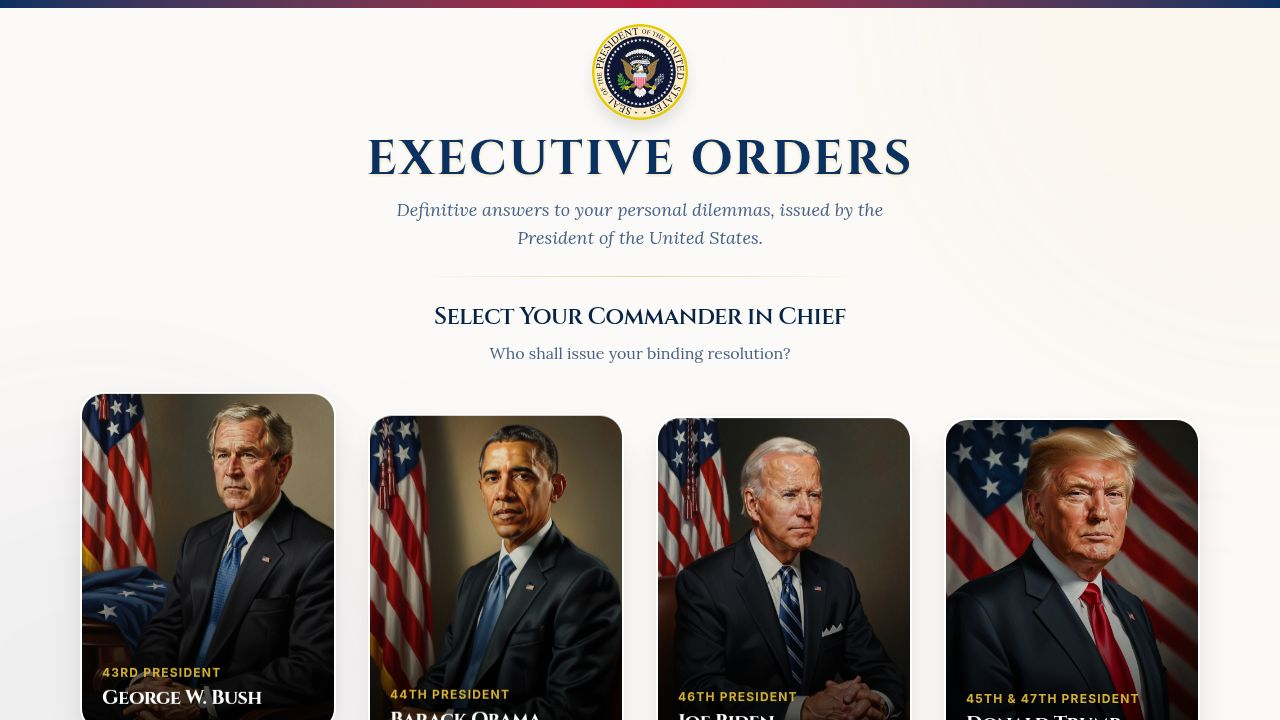
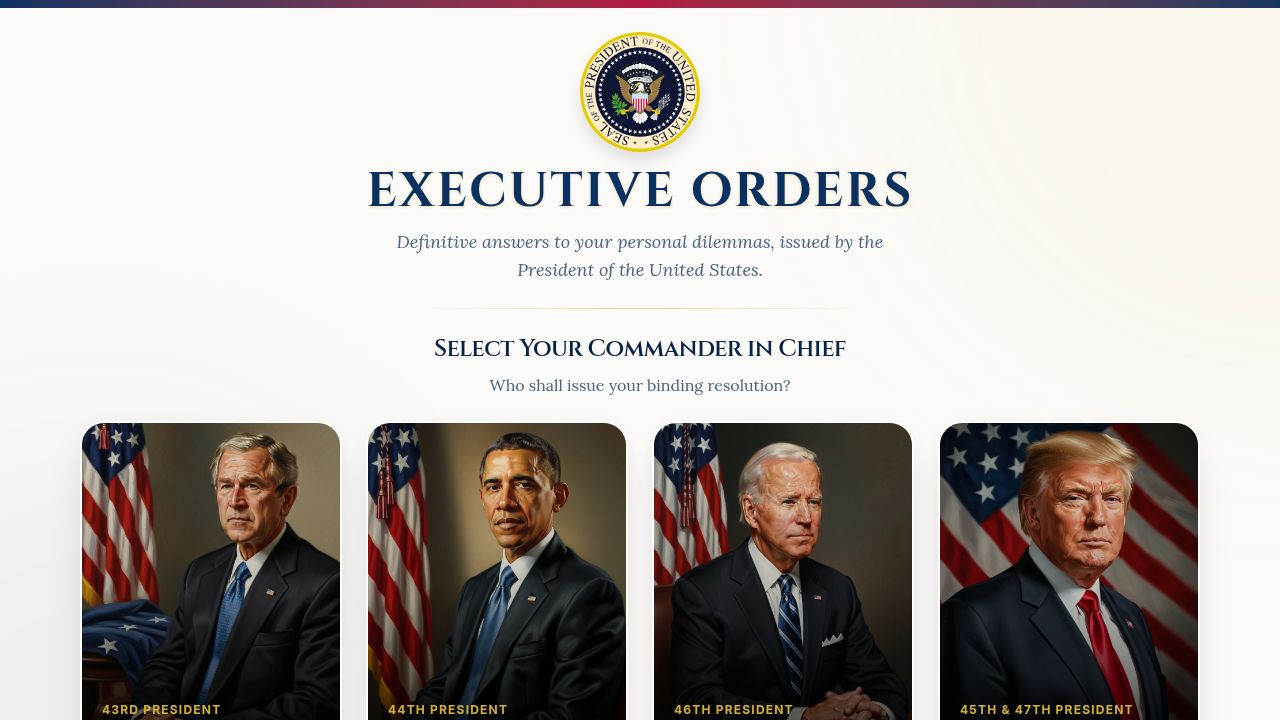
Fix errors by correcting component properties and removing unused code
Corrected Framer Motion props on a div element in PresidentSelector.tsx and removed an unused container variable.

Replit-Commit-Author: Agent
Replit-Commit-Session-Id: 940f66c3-50d1-4ead-a4e1-53856cc508cb
Replit-Commit-Checkpoint-Type: full_checkpoint
Replit-Commit-Event-Id: a72ce40f-b185-4c43-b16a-8abd64652aa9
Replit-Commit-Screenshot-Url: https://storage.googleapis.com/screenshot-production-us-central1/06a2d15c-5adb-47ed-8d57-0ca912760884/940f66c3-50d1-4ead-a4e1-53856cc508cb/tqqhmJW
Replit-Helium-Checkpoint-Created: true

diff --git a/artifacts/executive-orders/src/components/PresidentSelector.tsx b/artifacts/executive-orders/src/components/PresidentSelector.tsx
@@ -37,16 +37,6 @@ const PRESIDENTS = [
   },
 ];
 
-const container = {
-  hidden: { opacity: 1 },
-  show: {
-    opacity: 1,
-    transition: {
-      staggerChildren: 0,
-    },
-  },
-};
-
 export function PresidentSelector({ onSelect }: PresidentSelectorProps) {
   return (
     <div className="w-full max-w-6xl mx-auto px-4">
@@ -60,9 +50,6 @@ export function PresidentSelector({ onSelect }: PresidentSelectorProps) {
       </div>
 
       <div
-        variants={container}
-        initial="hidden"
-        animate="show"
         className="grid grid-cols-2 lg:grid-cols-4 gap-4 md:gap-6"
       >
         {PRESIDENTS.map((president) => (
